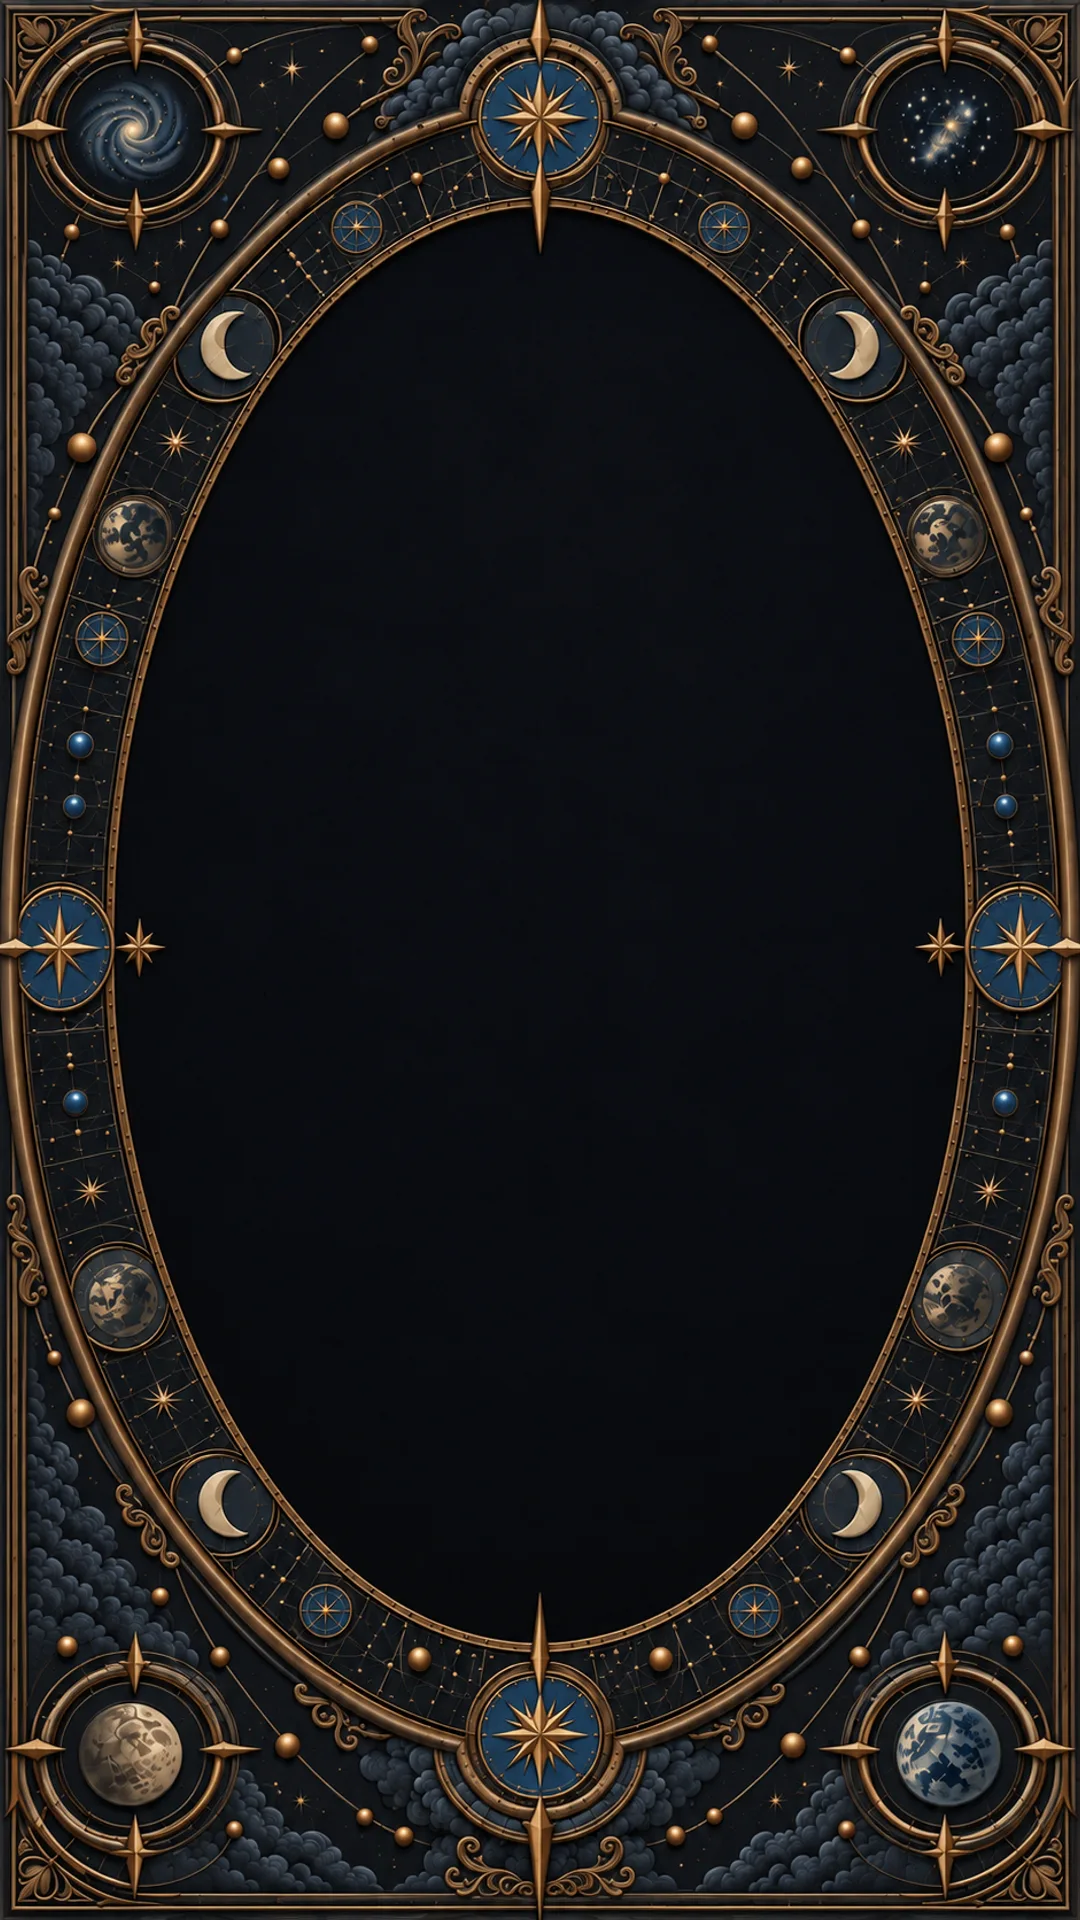
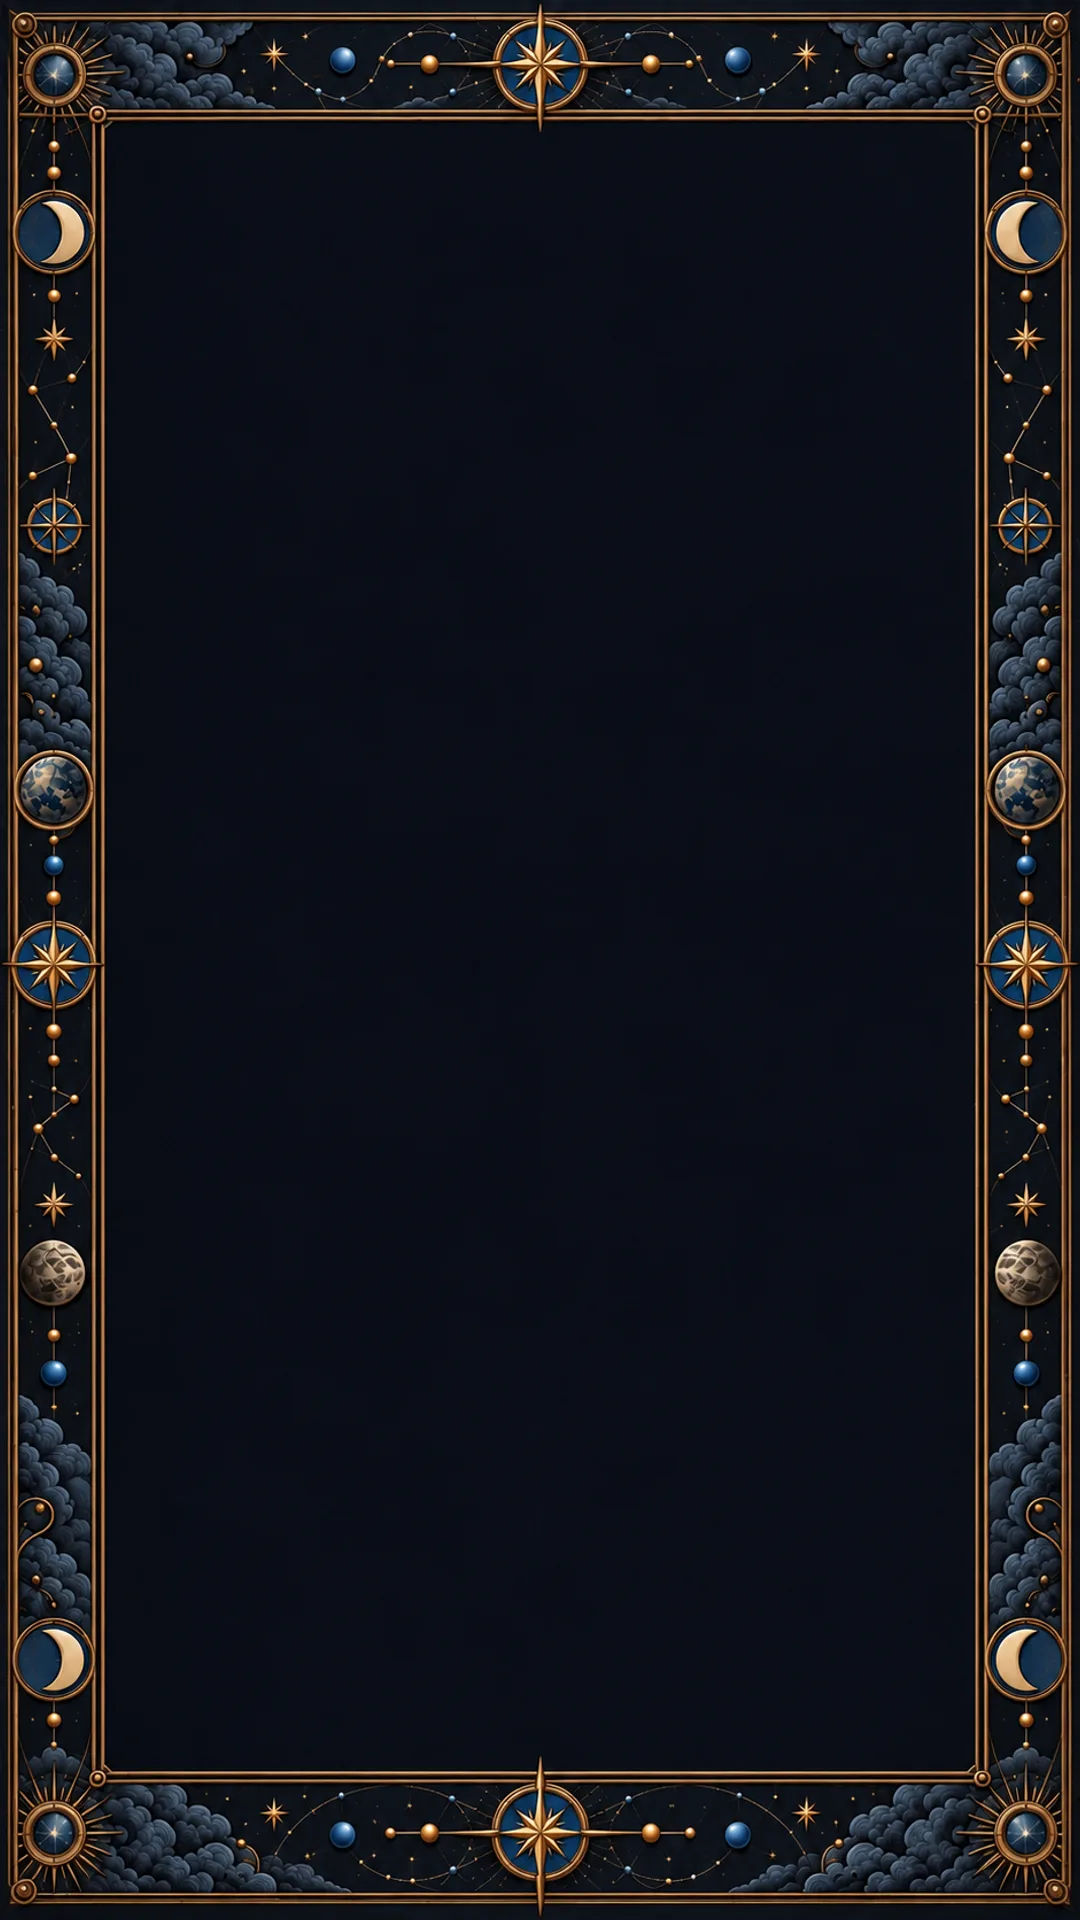
Cancellation Task: rectangular-frame star-chart backgrounds (both themes, both orientations); level-path scroll + spacing fix
Backgrounds — Codex regenerated the whole set as a rectangular frame
instead of the oval "empty-centre" composition, which was the actual
fix for "empty space, background not used" reported on mobile: an oval
concentrates its ornament at four corner medallions, so `cover`
cropping the sides on a narrow phone could lose them entirely. A
rectangular border runs the identical repeating pattern the full
length of every edge, so cropping the sides only trims pattern, never
a whole motif. All 4 combinations (light/dark x landscape/portrait)
swapped in under the existing filenames — no CSS changes needed for
the swap itself, all now noticeably lighter (92-122KB each vs several
hundred KB for the oval set).

Also reverted a background-position shift added a few commits back for
"align the squares to the circle" — the arithmetic assumed real
vertical slack in the cover-fit that this asset's aspect ratio (~0.56,
narrower than most real phone viewports) doesn't actually leave, so it
wasn't achieving its stated purpose regardless of the frame shape.

Level-path map (owner: "the circle is covering up words") —
CancelPlanetPath.jsx: `scrollIntoView({block:'center'})` forced a
scroll to dead-centre the current level even when it was already on
screen, cropping the title/blurb for a low-level frontier. Changed to
`block:'nearest'` (no scroll if already visible) and gave the first
node more headroom above it, since Kawkab's own sprite needs room to
[…]

diff --git a/src/styles/training.css b/src/styles/training.css
@@ -10027,35 +10027,33 @@ html[data-home-theme='dark'] .ct-domain-game-stage:has(.cancellation-task-game .
      * the landscape rule two blocks up, just scoped inside this media
      * query so it wins here instead.
      *
-     * ⚠ RE-CENTRED (owner: "align the squares... according to the big
-     * circle of the background image") — this background is `fixed`, full
-     * viewport, centred on the WHOLE screen. The board itself is not: on a
-     * phone `.cb2d-wrap`'s top padding reserves real room for the HUD strip
-     * (`--fq-hud-reserve`, ~96px measured) while the bottom only clears the
-     * home indicator (~20px), so the board's own content centres itself
-     * lower than screen-centre — the exact asymmetry `.ct-juice-solvepulse`
-     * already corrects for with this identical `(reserve - 20) / 2` formula
-     * a few files over. The oval was landing above the board it's meant to
-     * frame.
-     *
-     * ⚠ Static, not live: a CSS custom property set on `.ct-fq-g-wrap` (a
-     * DESCENDANT of this stage) does not inherit UP to this `::before`
-     * pseudo-element, so this uses the same 96px fallback the JS falls
-     * back to itself rather than the live measured value. Close on any
-     * phone in the HUD's normal height range; revisit with a real
-     * measurement (e.g. a CSS var written higher, on the stage itself) if
-     * a specific device still looks off. */
+     * ⚠ RE-CENTRING REVERTED (2026-09-12) — a `background-position` shift
+     * was added here on the reasoning that the board sits lower than
+     * screen-centre (true) and the fixed background doesn't know that
+     * (also true). But the arithmetic only works if there's vertical
+     * SLACK to shift within, and there mostly isn't: this asset is
+     * 1080x1916 (≈0.5625 aspect), narrower/taller than nearly every real
+     * phone viewport (≈0.45-0.48), so `cover` scales it to match HEIGHT
+     * exactly and crops the SIDES — there is close to zero vertical
+     * overflow for a `background-position-y` shift to move within, on
+     * the devices that matter. The shift was reported back as new empty-
+     * looking space at the top, which is a DIFFERENT bug (see the
+     * `background-size: cover` note in cancelBoard2d.css's TRIAL comment
+     * for the live diagnosis) — plain centring at least isn't adding a
+     * second unproven variable on top of it. If the board's true offset
+     * from centre is ever worth chasing again, it needs a REAL measured
+     * value written where this pseudo-element can read it (a var set on
+     * the stage itself, not `.ct-fq-g-wrap`, which is a descendant),
+     * not a fallback-based estimate. */
     .ct-domain-game-stage:has(.cancellation-task-game .ct-fq-play[data-gameplay-active='true'])::before {
         background-image: linear-gradient(var(--game-veil), var(--game-veil)),
             url("/the-maze-man-comics/Assets/attention/cancel-starchart-bg-portrait.webp");
-        background-position: center calc(50% + (96px - 20px) / 2);
     }
     /* Dark-graded portrait half — same asset pair and reasoning as the
-       landscape dark override two blocks up, same re-centring math. */
+       landscape dark override two blocks up. */
     html[data-home-theme='dark'] .ct-domain-game-stage:has(.cancellation-task-game .ct-fq-play[data-gameplay-active='true'])::before {
         background-image: linear-gradient(var(--game-veil), var(--game-veil)),
             url("/the-maze-man-comics/Assets/attention/cancel-starchart-bg-dark-portrait.webp");
-        background-position: center calc(50% + (96px - 20px) / 2);
     }
     .ct-domain-game-stage[data-training-domain="speed"]:has([data-gameplay-active='true'])::before {
         background-image: linear-gradient(var(--game-veil), var(--game-veil)),

diff --git a/src/features/training/domains/attention/games/cancellation/CancelPlanetPath.jsx b/src/features/training/domains/attention/games/cancellation/CancelPlanetPath.jsx
@@ -38,7 +38,12 @@ const AMPLITUDE = 30;  // how far a node swings from centre, in % of width
 const BAND_SIZE = 10;
 const BAND_GAP = 56;   // breathing room where a chapter rule sits
 
-const yOf = (i) => 56 + i * ROW_H + Math.floor(i / BAND_SIZE) * BAND_GAP;
+// The first node's own offset (was 56) has to clear KAWKAB standing above
+// it too, not just the orb — his sprite reaches roughly 60px above
+// whichever node is current, and level 1 IS the current node for every
+// new player. 56 gave him ~4px of headroom before `.cpp-path`'s own top
+// edge, which is what the header-crowding report was actually measuring.
+const yOf = (i) => 96 + i * ROW_H + Math.floor(i / BAND_SIZE) * BAND_GAP;
 
 const ATLAS_CYCLE = [
   'galaxy', 'supernova', 'nebula-bolt', 'portal', 'warp-gate', 'moon',
@@ -153,12 +158,24 @@ export default function CancelPlanetPath({
 
   // Land on the player's own marker — a long scroll always opening at the
   // top means a high-level player hunts thousands of px for their own
-  // position. Deliberately instant (`block:'center'`, no smooth option),
-  // which also sidesteps prefers-reduced-motion entirely: nobody watches a
+  // position. Deliberately instant (no smooth option), which also
+  // sidesteps prefers-reduced-motion entirely: nobody watches a
   // multi-thousand-px scroll fly by either way.
+  //
+  // ⚠ `block:'center'` FORCES a scroll even when the node is already on
+  // screen (owner: "the circle is covering up words" — reported for a
+  // low-level frontier, where the marker sits close to the title/blurb
+  // above `.cpp-path`). Centering an early node drags the viewport down
+  // by however much the rest of the page has to move to put it dead
+  // centre, which can crop the header mid-line instead of leaving it
+  // above the fold the way it already was. `nearest` only scrolls the
+  // minimum needed to bring the marker fully into view — nothing at all
+  // for a frontier that's already visible, which is exactly the
+  // low-level case this broke, and still a real jump for a frontier
+  // thousands of px down the ladder.
   const currentRef = useRef(null);
   useLayoutEffect(() => {
-    currentRef.current?.scrollIntoView({ block: 'center' });
+    currentRef.current?.scrollIntoView({ block: 'nearest' });
     // Intentionally once-on-mount: re-running on every `current` change would
     // yank the screen out from under a player who scrolled away to look at a
     // future planet's tag.
